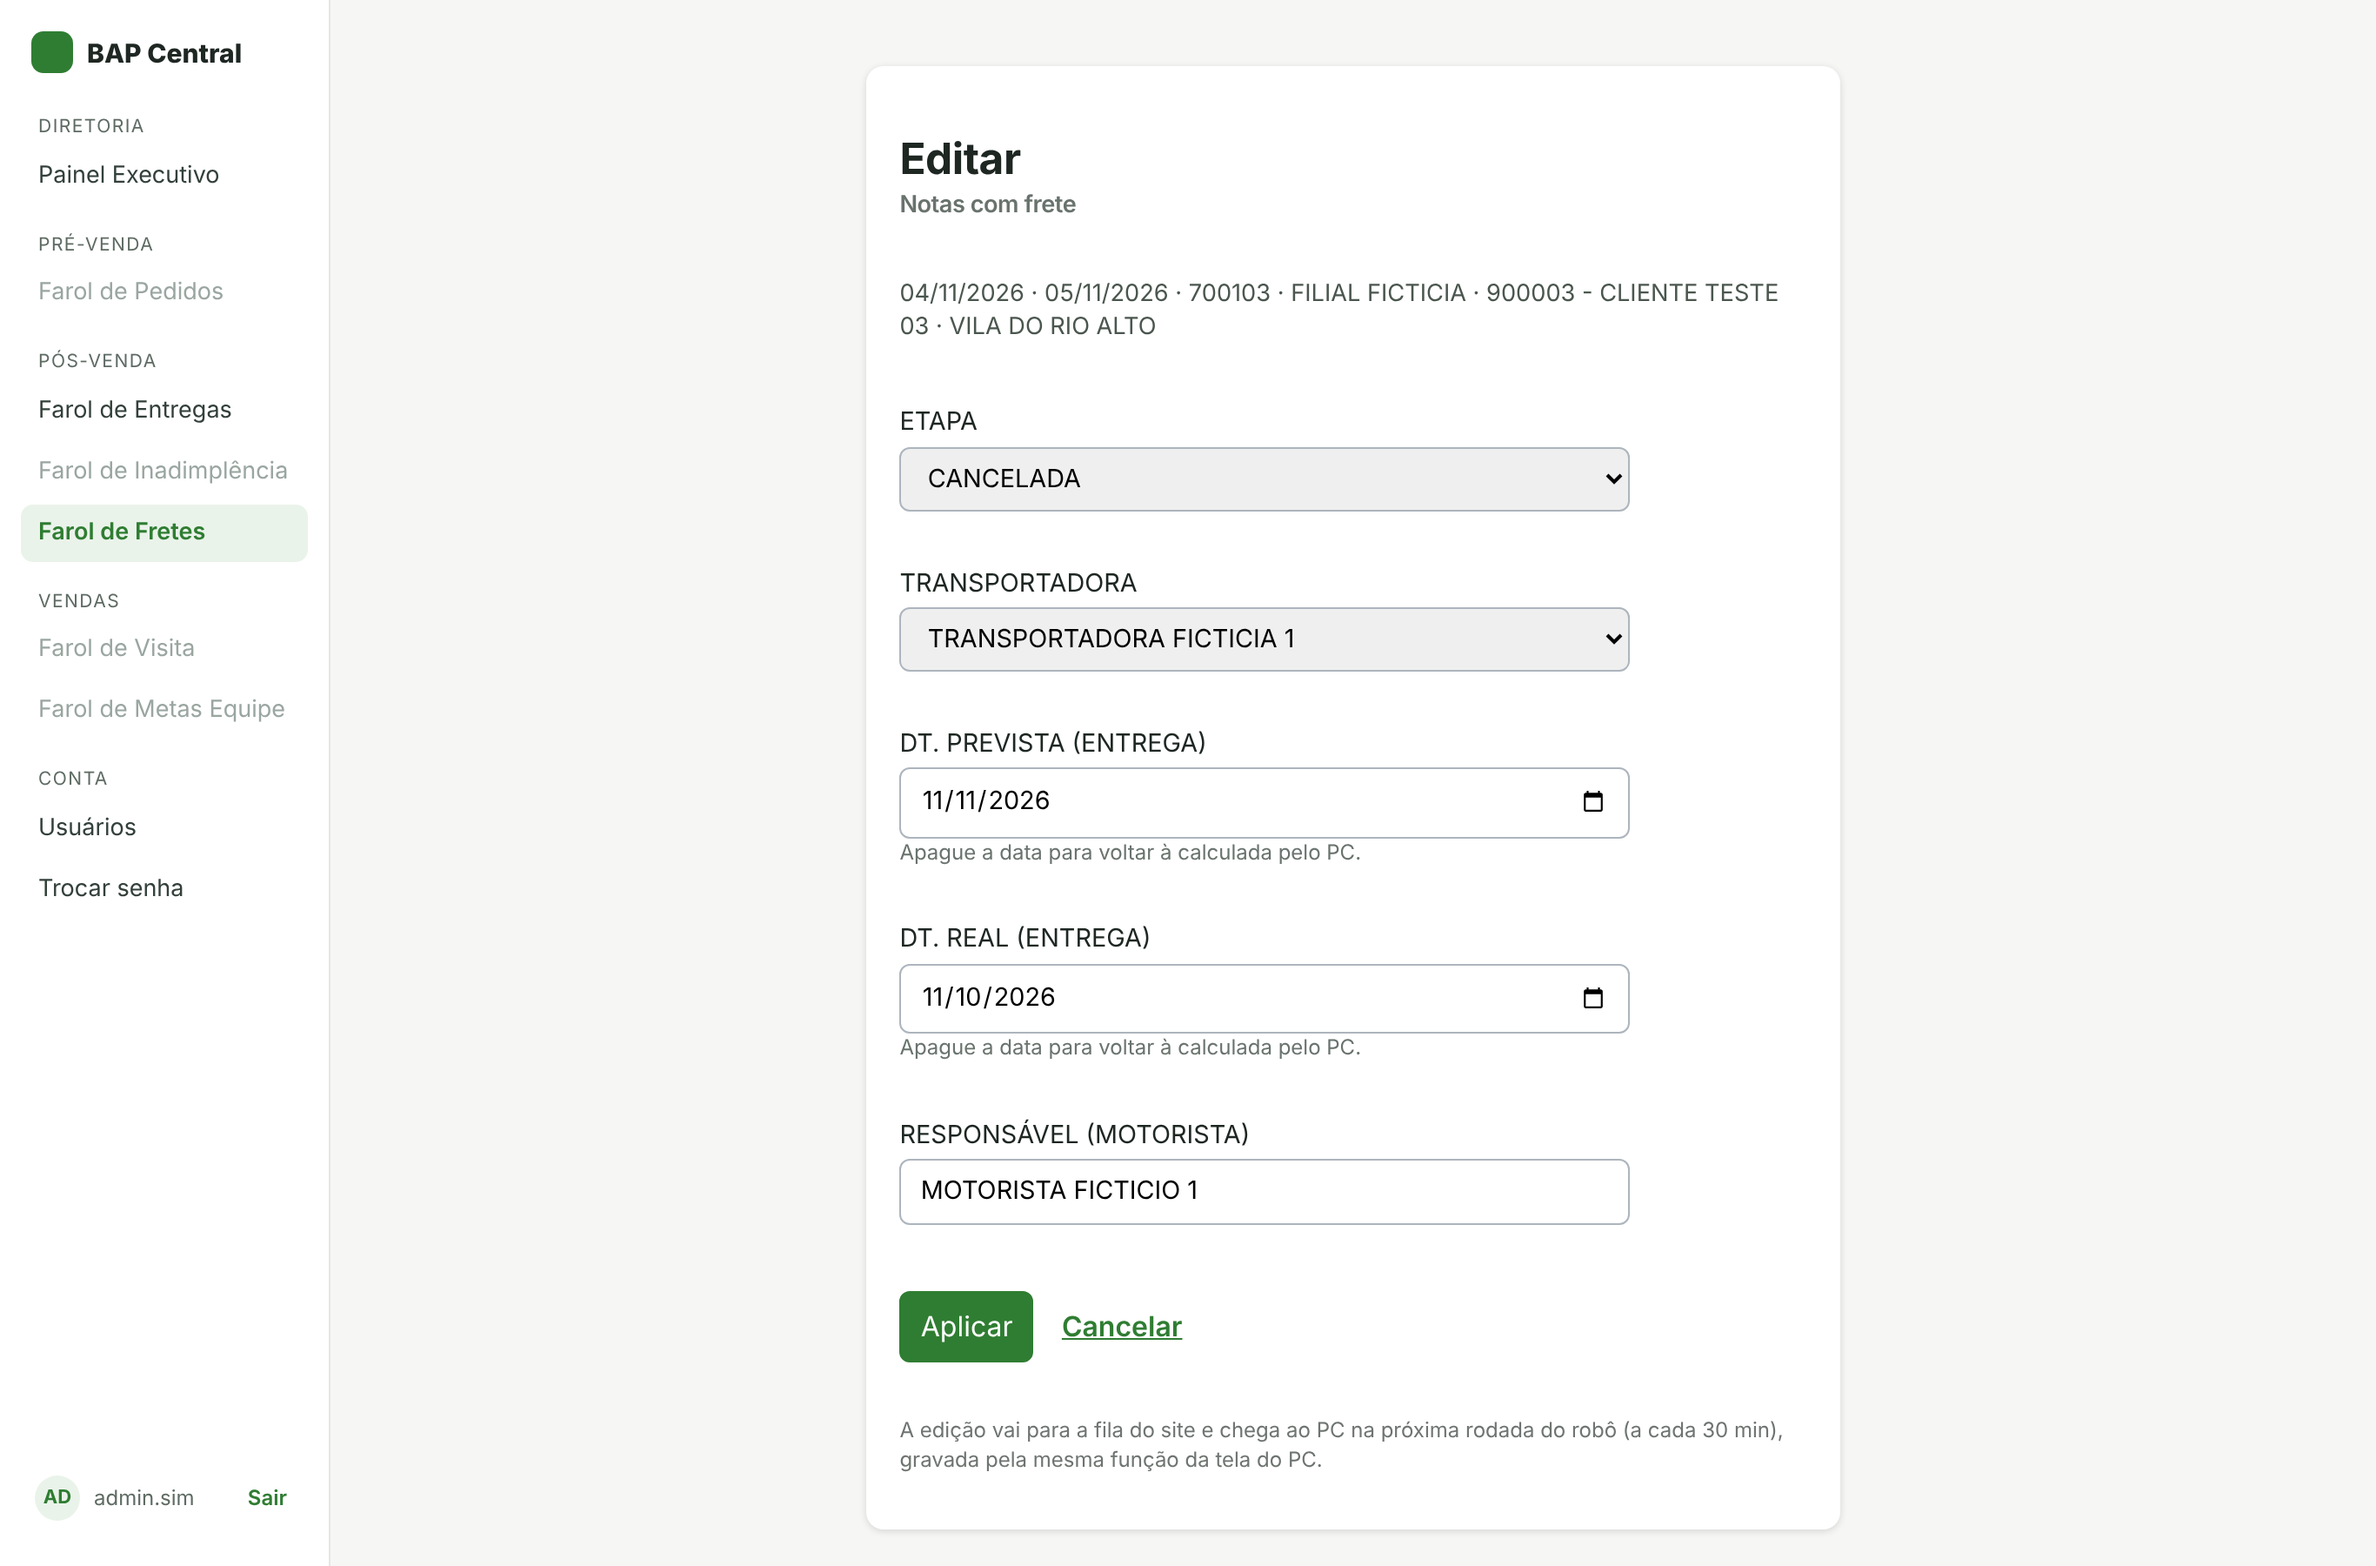
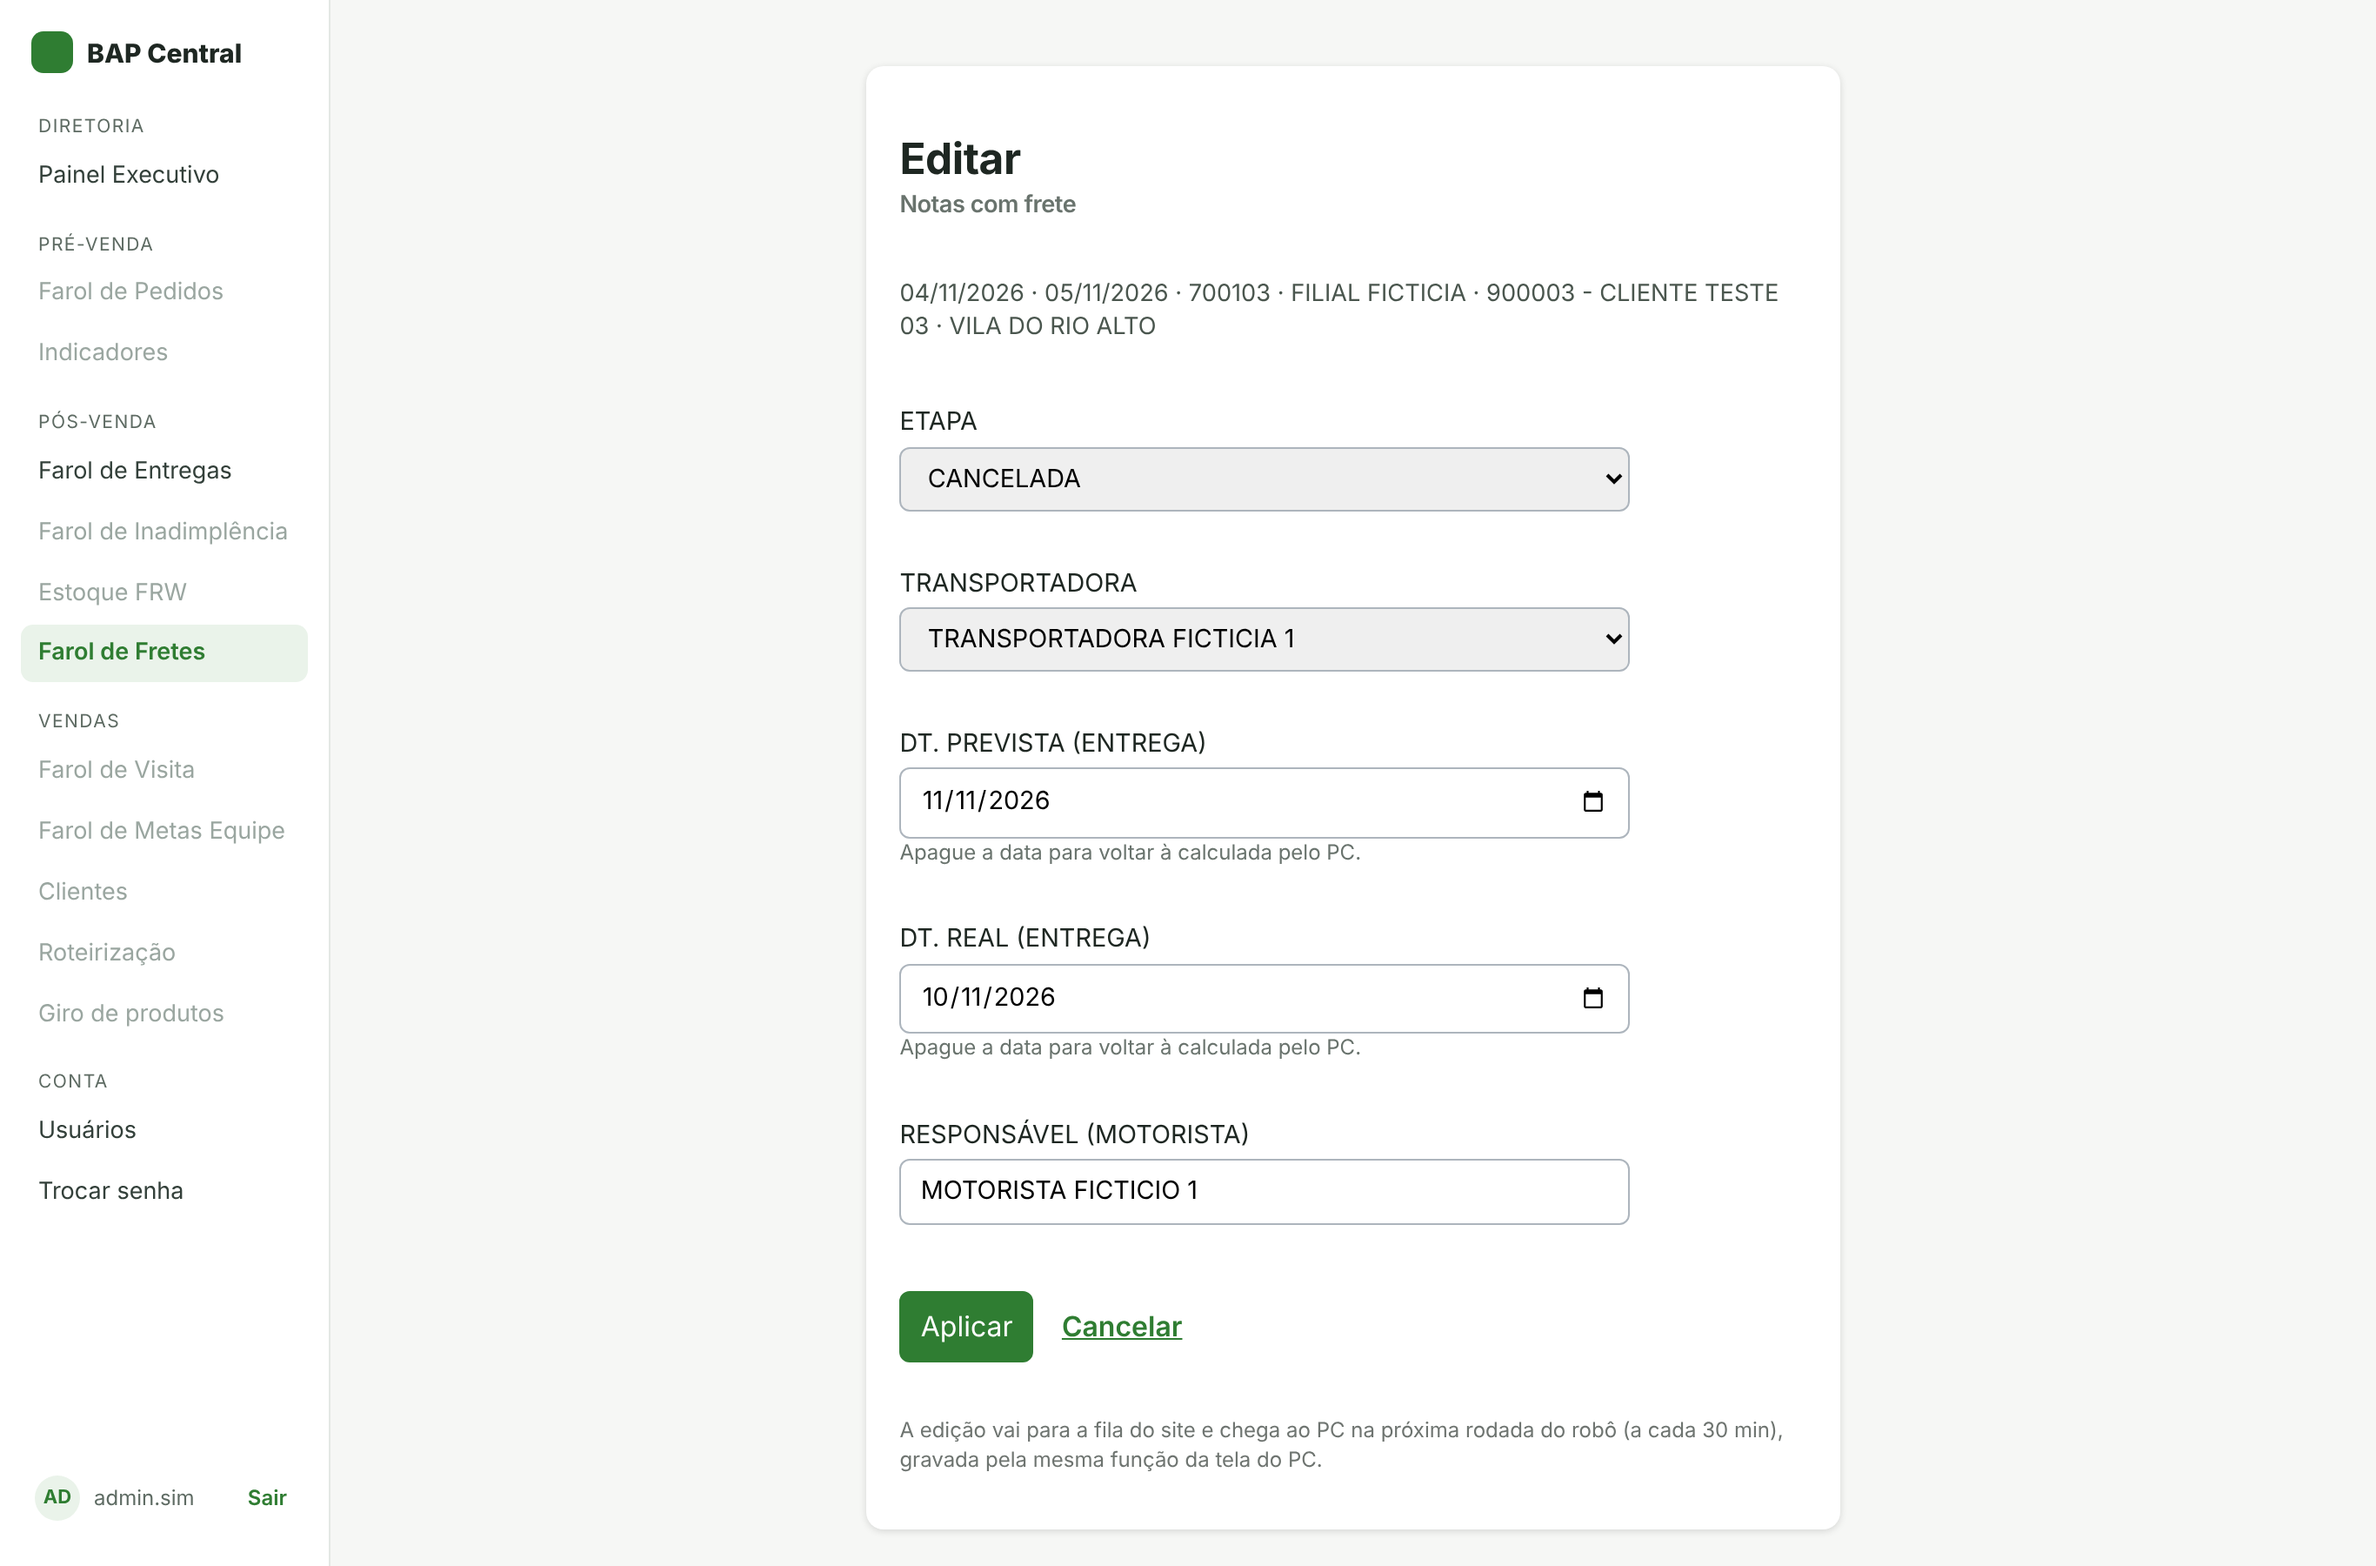
T-0037: data do formulário em pt-BR nas simulações, teste do DT. REAL e marca sem quebra
Agente: modulo-web
Claude-Session: https://claude.ai/code/session_01QvB2SSpwQz5jwfbjHCGYWr

diff --git a/web/app/static/estilo.css b/web/app/static/estilo.css
@@ -295,7 +295,7 @@ footer{color:#5E6B62}
 .ed-col{white-space:nowrap;width:1%}
 .bt-ed{display:inline-block;background:#2F7D32;color:#fff;border-radius:6px;padding:.1rem .5rem;font-size:.75rem;font-weight:600;text-decoration:none}
 .ed-nao{color:#69736D}
-.ed-marca{display:inline-block;margin-left:.3rem;border-radius:6px;padding:.05rem .4rem;font-size:.72rem;font-weight:600}
+.ed-marca{display:inline-block;white-space:nowrap;margin-left:.3rem;border-radius:6px;padding:.05rem .4rem;font-size:.72rem;font-weight:600}
 .ed-pend{background:#FFF1C7;color:#8A5A00}.ed-erro{background:#B3261E;color:#fff}
 .tab-dados tr.sel td{background:#E5F3DF!important}
 .sel-link{color:#2F7D32;font-weight:600;text-decoration:underline dotted}

diff --git a/web/tests/test_T0037_fretes.py b/web/tests/test_T0037_fretes.py
@@ -118,3 +118,9 @@ def test_RN_GER_012_pacote_sem_fretes_continua_aceito(admin):
     p = pacote_fretes()
     del p["relatorios"]["pl_fretes"]
     assert postar(admin, p).status_code == 200
+
+
+def test_RN_POS_010_formulario_mostra_a_data_real_da_fixture(admin):
+    _pacote_ok(admin)
+    url = "/farol/pl_fretes/editar?tab=Notas%20com%20frete&chave=FILIAL%20FICTICIA%7C7002%7C1"
+    assert 'value="2026-11-10"' in admin.get(url).text           # DT. REAL = 10/11/2026 (ISO no campo)
